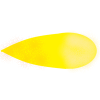
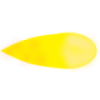
머신건 이미지 수정

diff --git a/project/file_heavymachinegun.py b/project/file_heavymachinegun.py
@@ -49,10 +49,10 @@ class HeavyMachineGun:
     def draw(self):
         if self.delay == 0:
             if self.is_above == 1:
-                self.bullet.clip_composite_draw(0, 0, 100, 100, -math.pi / 2, 'h', self.x, self.y, 70, 35)
+                self.bullet.clip_composite_draw(0, 0, 100, 100, -math.pi / 2, 'h', self.x, self.y, 90, 45)
             elif self.is_above == 2:
-                self.bullet.clip_composite_draw(0, 0, 100, 100, math.pi / 2, 'h', self.x, self.y, 70, 35)
+                self.bullet.clip_composite_draw(0, 0, 100, 100, math.pi / 2, 'h', self.x, self.y, 90, 45)
             elif self.direction > 0:
-                self.bullet.clip_composite_draw(0, 0, 100, 100, math.pi, 'h', self.x, self.y, 70, 35)
+                self.bullet.clip_composite_draw(0, 0, 100, 100, math.pi, 'h', self.x, self.y, 90, 45)
             elif self.direction < 0:
-                self.bullet.clip_composite_draw(0, 0, 100, 100, 0, 'h', self.x, self.y, 70, 35)
+                self.bullet.clip_composite_draw(0, 0, 100, 100, 0, 'h', self.x, self.y, 90, 45)

diff --git a/project/file_player.py b/project/file_player.py
@@ -2,12 +2,13 @@ from pico2d import *
 import game_world
 import main_state
 import game_framework
+import random
+
 
 from file_handgun import Handgun
 from file_heavymachinegun import HeavyMachineGun
 from laser import Laser
 from file_grenade import Grenade
-import random
 
 
 # Boy Event

diff --git a/project/file_handgun.py b/project/file_handgun.py
@@ -2,6 +2,7 @@ from pico2d import *
 import game_world
 import main_state
 import game_framework
+import os
 
 PIXEL_PER_METER = (10.0 / 0.3)
 MUZZLE_VELOCITY_KMPH = 200.0  # Km / Hour
